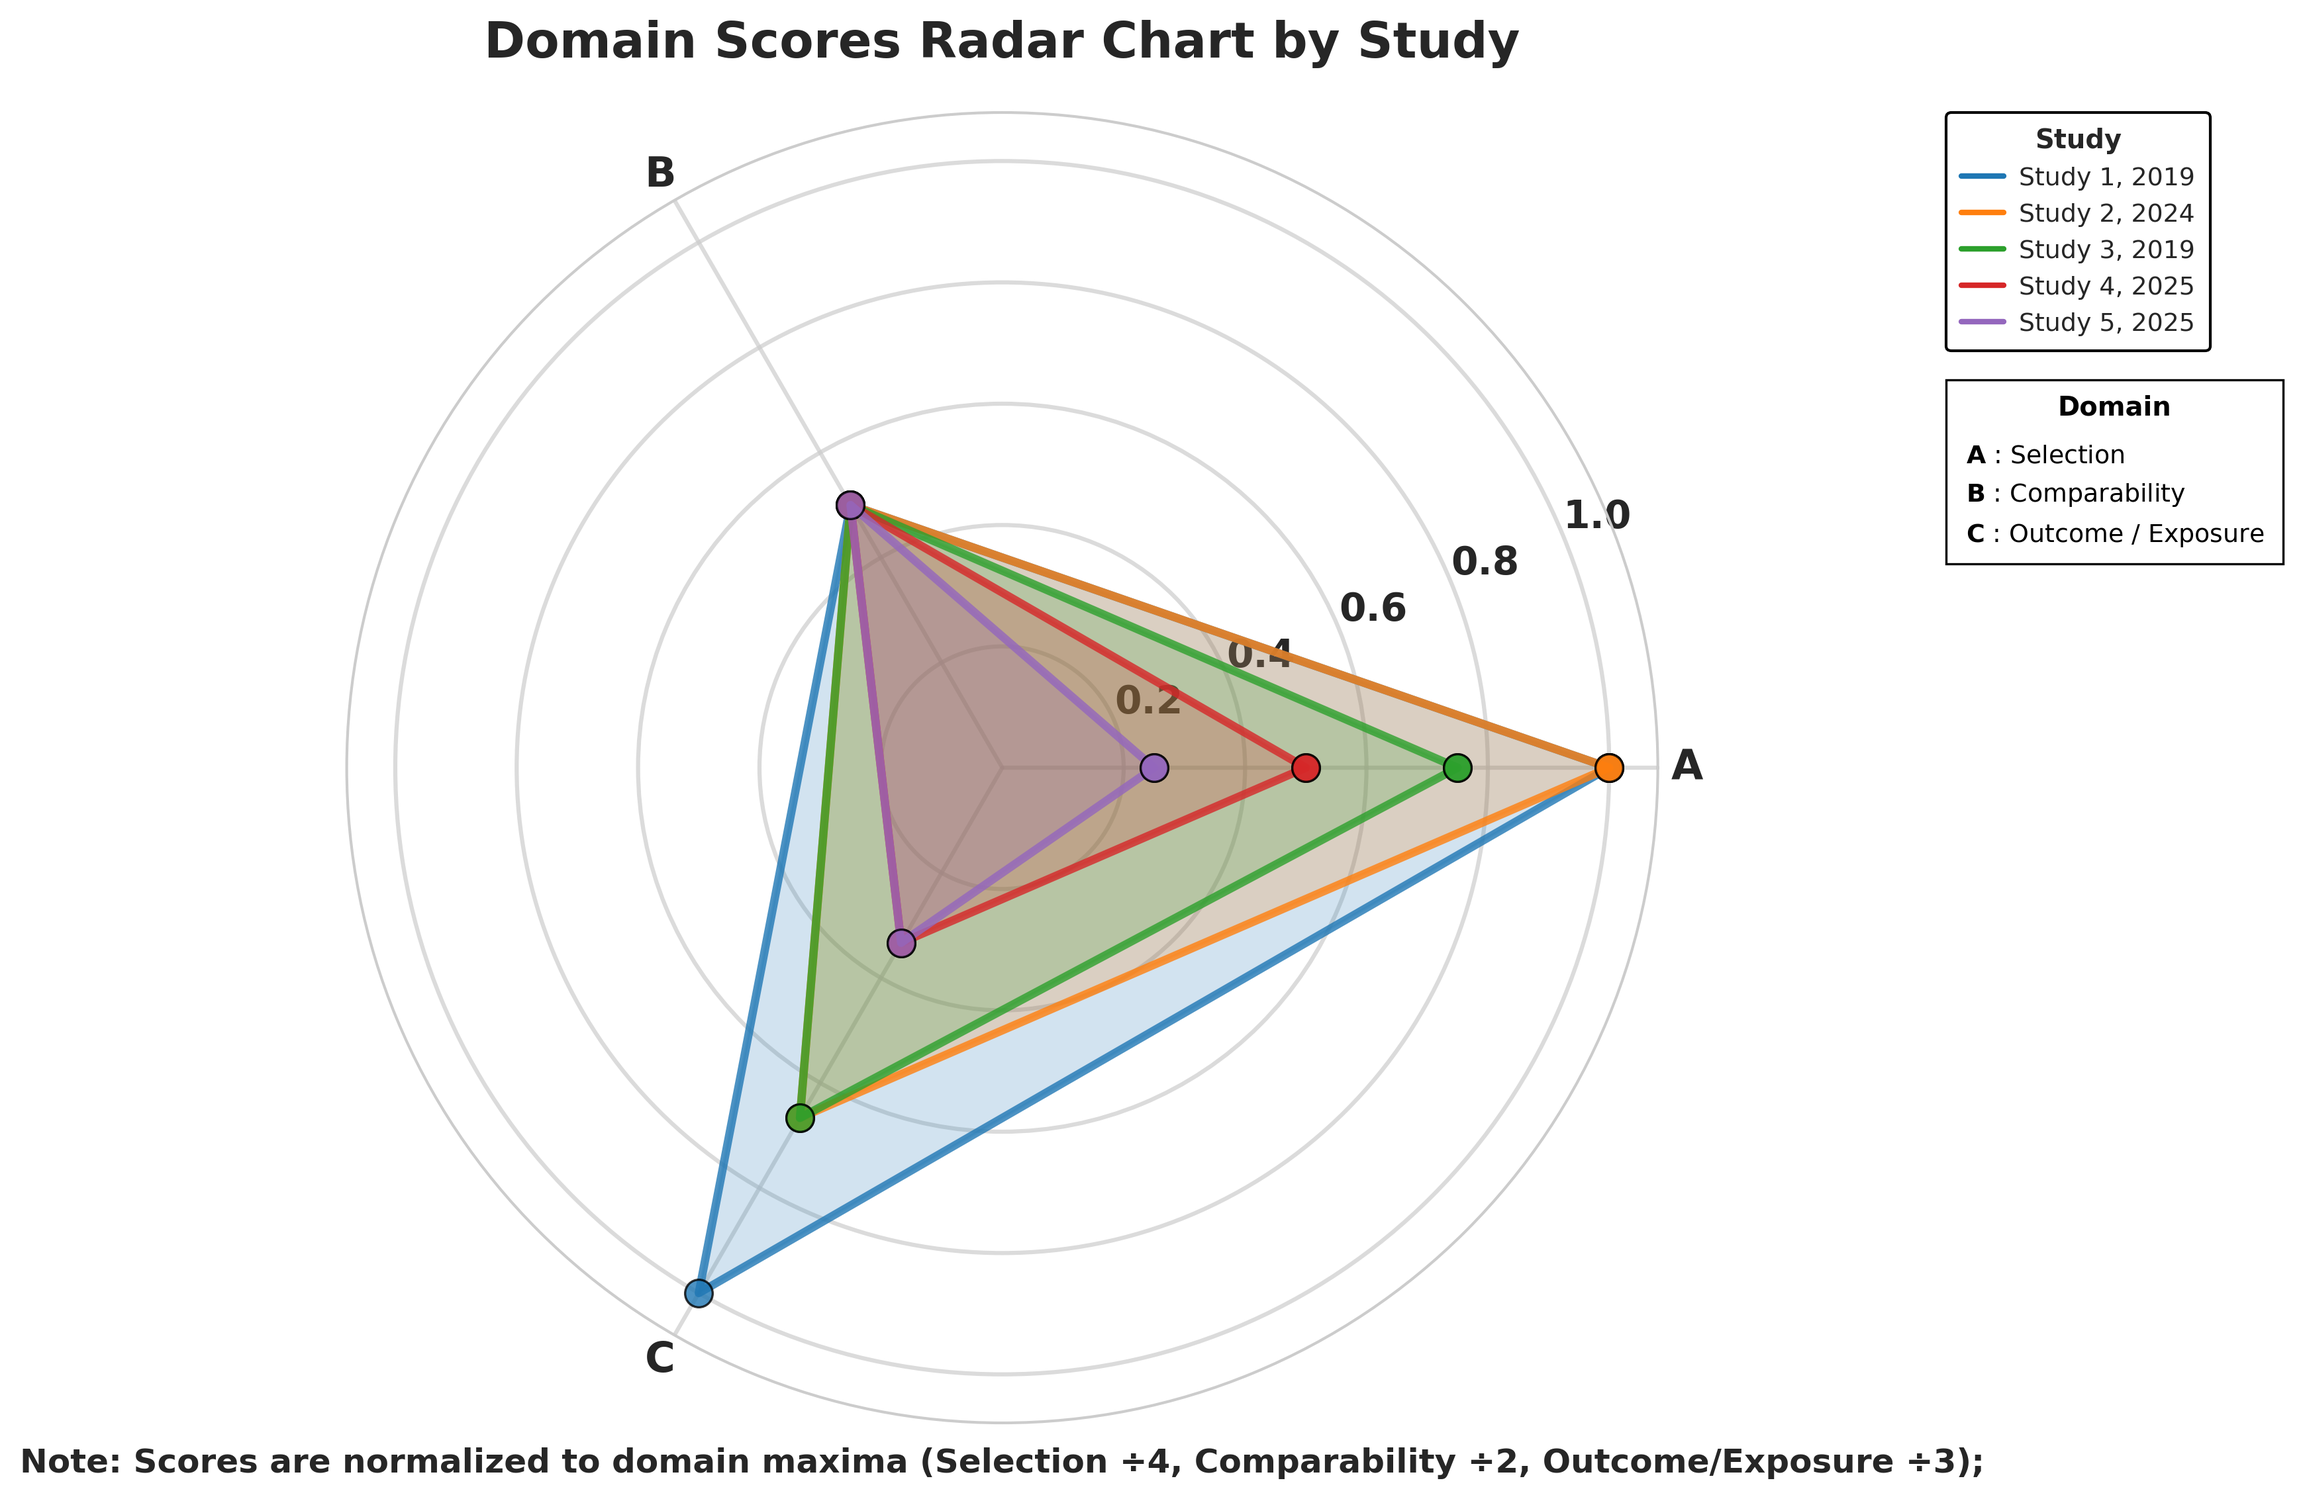
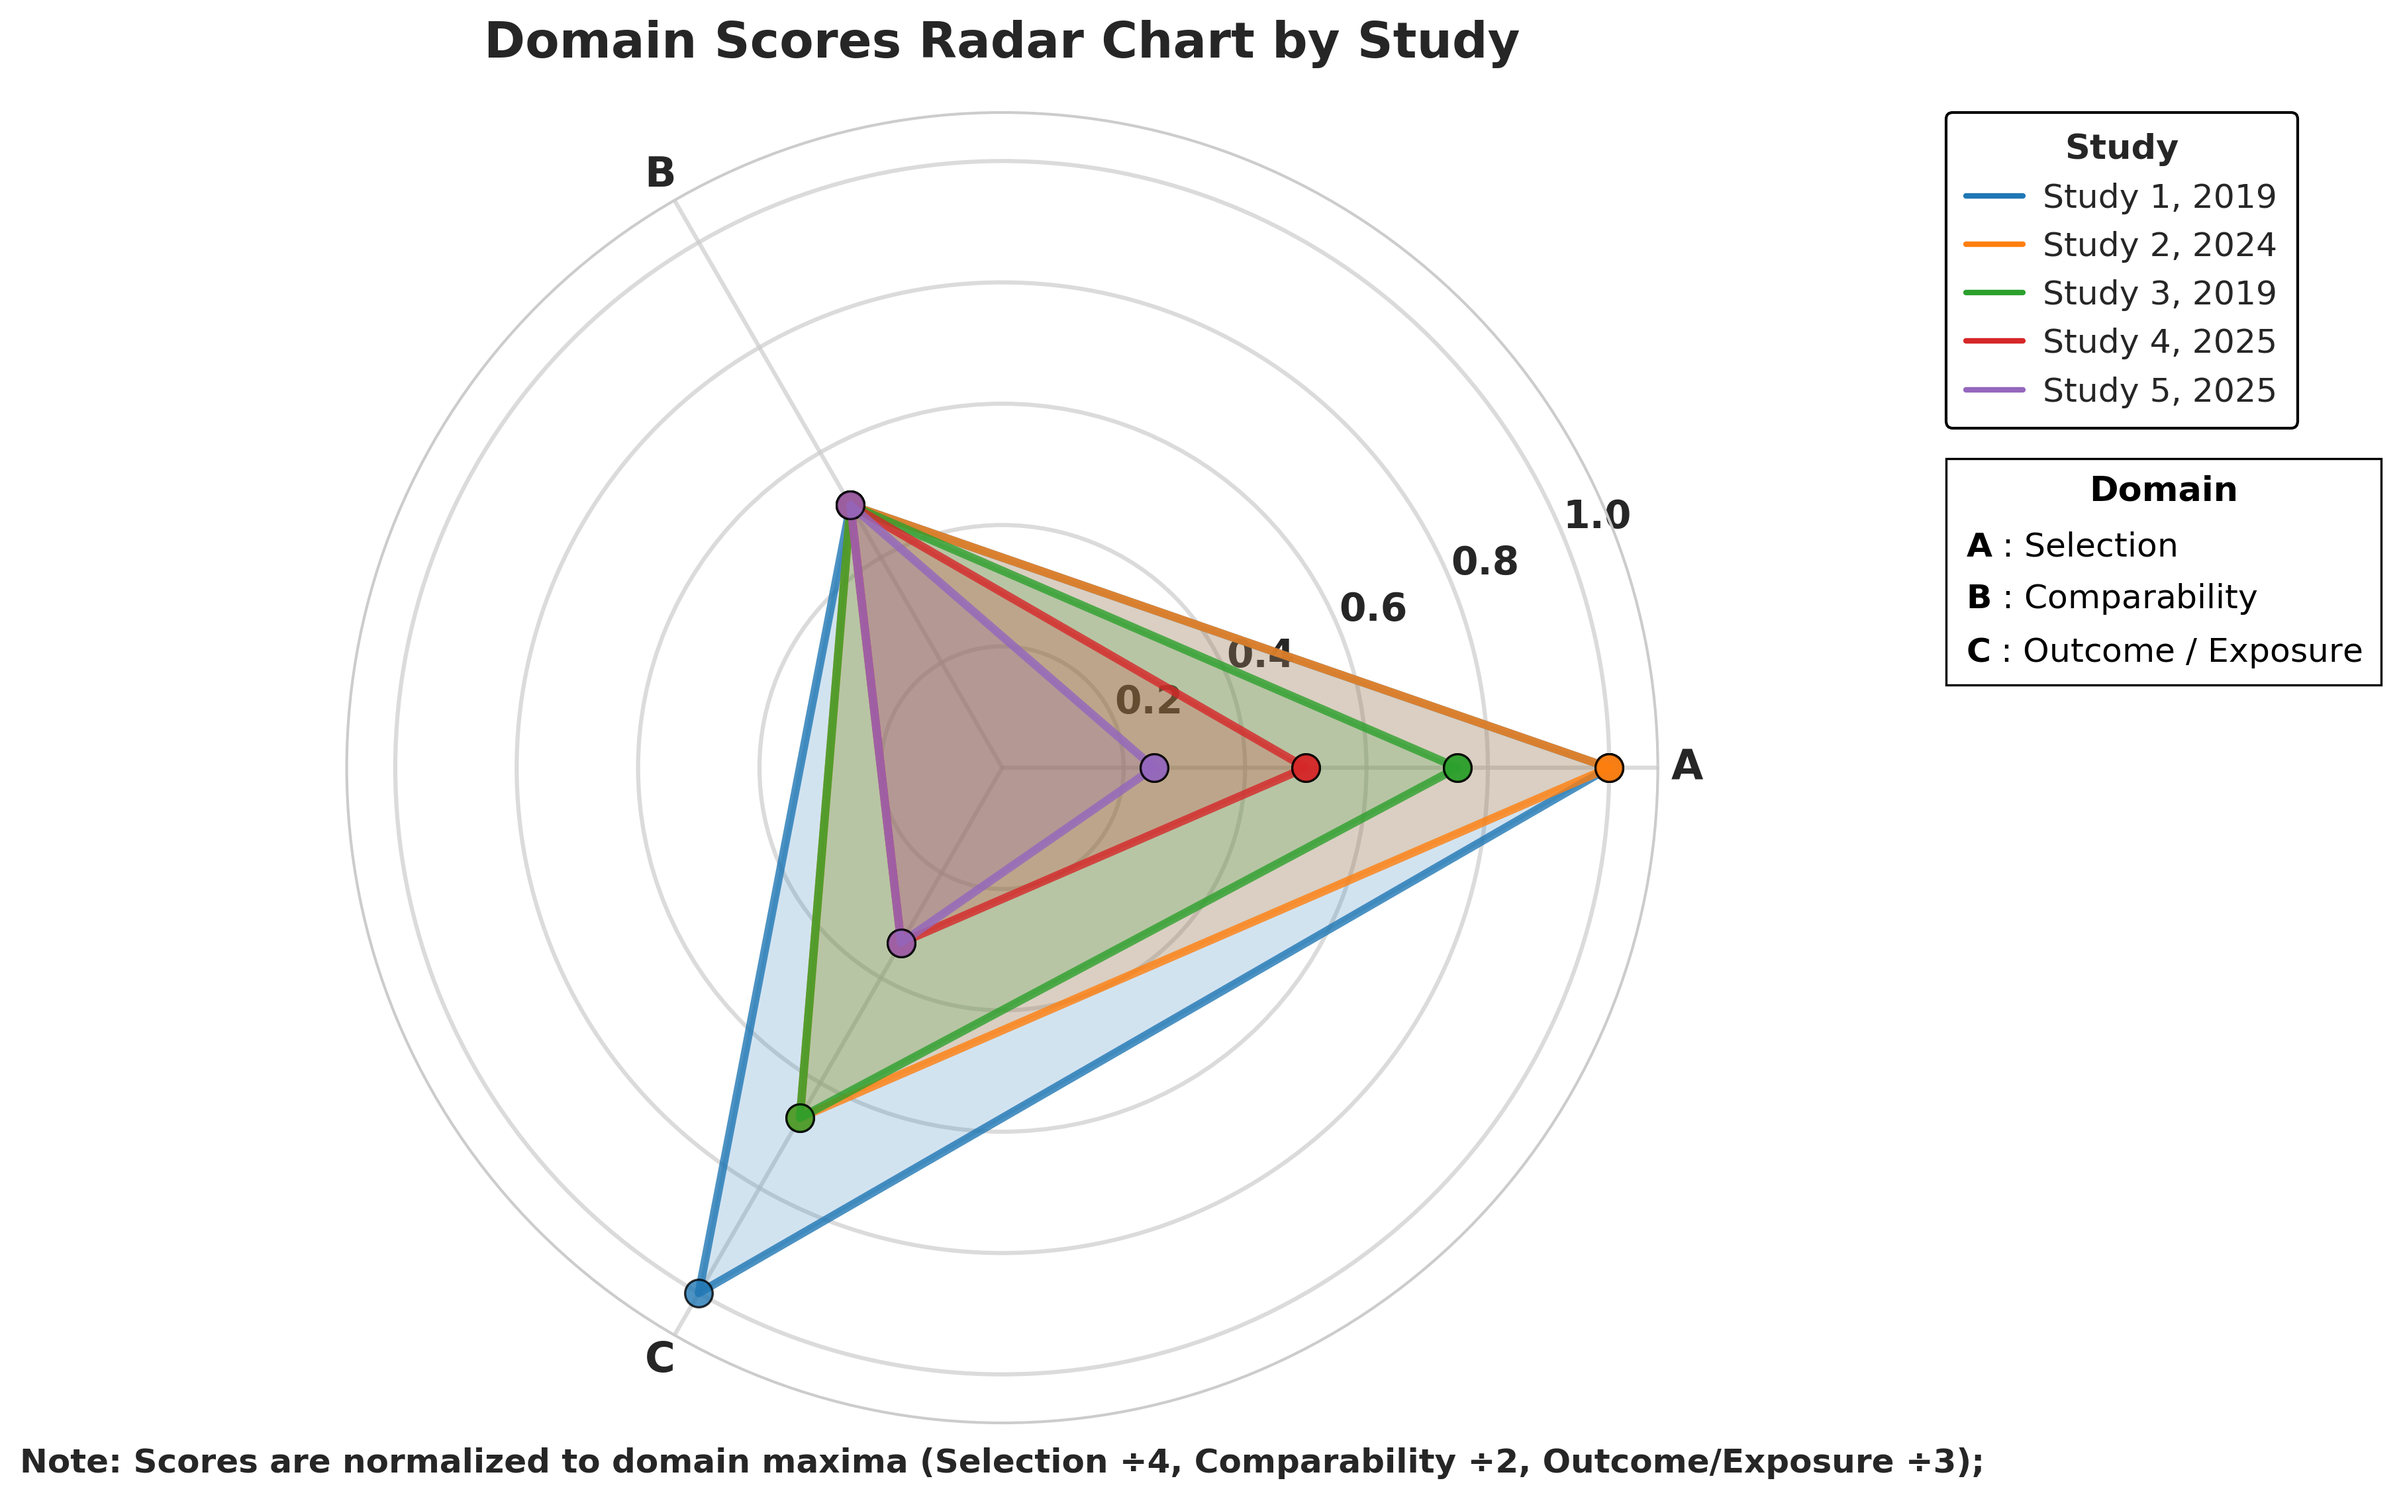
enlarge radar legends and table text, link themes section

diff --git a/nos_tlplot.py b/nos_tlplot.py
@@ -50,8 +50,8 @@ def get_theme_colors(theme):
 def compact_legend_fontsize(fig):
     return min(11.0, max(8.5, 0.65 * fig.get_size_inches()[0]))
 
-def add_compact_legend(ax, handles, title, anchor_x=1.02):
-    fs = compact_legend_fontsize(ax.get_figure())
+def add_compact_legend(ax, handles, title, anchor_x=1.02, fontsize=None):
+    fs = fontsize if fontsize is not None else compact_legend_fontsize(ax.get_figure())
     leg = ax.legend(handles=handles, title=title, fontsize=fs, title_fontsize=fs + 0.5,
                     loc='upper left', bbox_to_anchor=(anchor_x, 1.0), frameon=True,
                     edgecolor='black', facecolor='white', framealpha=1,
@@ -289,10 +289,10 @@ def plot_domain_radar(df: pd.DataFrame, output_file: str, theme: str = "traffic_
     ax.grid(True, linestyle='-', alpha=0.7, linewidth=1.5)
     
 
-    fs = compact_legend_fontsize(fig)
+    fs = min(13.0, compact_legend_fontsize(fig) + 3.0)
     study_legend_elements = [Line2D([0], [0], color=study_colors[i], lw=2.0, label=row['Author, Year'])
                              for i, (_, row) in enumerate(df.iterrows())]
-    leg = add_compact_legend(ax, study_legend_elements, "Study", anchor_x=1.22)
+    leg = add_compact_legend(ax, study_legend_elements, "Study", anchor_x=1.22, fontsize=fs)
 
     plt.subplots_adjust(bottom=0.22)
 
@@ -380,9 +380,9 @@ def plot_theme_radar(df: pd.DataFrame, output_file: str, theme: str = "traffic_l
     ax.tick_params(axis='y', labelsize=14)
     ax.grid(True, linestyle='-', alpha=0.7, linewidth=1.5)
     
-    fs = compact_legend_fontsize(fig)
+    fs = min(13.0, compact_legend_fontsize(fig) + 3.0)
     legend_elements = [Line2D([0], [0], color=colors_map[rob], lw=2.0, label=f"{rob} Risk") for rob in ["Low", "Moderate", "High"]]
-    risk_legend = add_compact_legend(ax, legend_elements, "Overall Risk", anchor_x=1.22)
+    risk_legend = add_compact_legend(ax, legend_elements, "Overall Risk", anchor_x=1.22, fontsize=fs)
 
     domain_mapping = {"A": "Selection", "B": "Comparability", "C": "Outcome / Exposure"}
 
@@ -568,7 +568,7 @@ def plot_score_table(df: pd.DataFrame, output_file: str, theme: str = "traffic_l
     table_df = df[["Author, Year", "Selection", "Comparability", "Outcome/Exposure", "Total Score", "Overall RoB"]].copy()
     table_df = table_df.sort_values("Overall RoB", ascending=False)
     
-    fig_width = max(12, 10 + len(table_df.columns) * 1.5)
+    fig_width = max(12, 5 + len(table_df.columns) * 1.63)
     fig_height = max(5, 0.4 * len(table_df) + 1.2)
     
     fig, ax = plt.subplots(figsize=(fig_width, fig_height))
@@ -591,7 +591,7 @@ def plot_score_table(df: pd.DataFrame, output_file: str, theme: str = "traffic_l
     )
     
     table.auto_set_font_size(False)
-    table.set_fontsize(13)
+    table.set_fontsize(15)
     
     for key, cell in table.get_celld().items():
         if key[0] > 0:
@@ -607,17 +607,18 @@ def plot_score_table(df: pd.DataFrame, output_file: str, theme: str = "traffic_l
             cell.set_facecolor('#f0f0f0')
             cell.set_edgecolor('white')
             cell.set_linewidth(2.5)
+            cell.get_text().set_fontsize(14.5)
         else:
             cell.set_edgecolor('white')
             cell.set_linewidth(2.5)
     
     plt.subplots_adjust(left=0.05, right=0.95)
     
-    fs = compact_legend_fontsize(fig)
+    fs = min(12.5, compact_legend_fontsize(fig) + 2.5)
     legend_elements = [Line2D([0], [0], marker='o', color='w', markerfacecolor=colors_map[rob],
                               markeredgecolor='black', markersize=fs * 0.85, markeredgewidth=0.8, label=f"{rob} Risk")
                        for rob in ["High", "Moderate", "Low"]]
-    add_compact_legend(ax, legend_elements, "Overall Risk")
+    add_compact_legend(ax, legend_elements, "Overall Risk", fontsize=fs)
     
 
     plt.savefig(output_file, dpi=300, bbox_inches='tight', pad_inches=0.2)

diff --git a/README.md b/README.md
@@ -22,7 +22,7 @@ It converts NOS star ratings into **publication-ready traffic-light plots** and 
 
 - **12 Visualization Types**: Traffic-light plots, radar charts, heatmaps, dot profiles, donut charts, lollipop charts, line plots, and more  
 - **Publication-Quality Output**: Export figures in `.png`, `.pdf`, `.svg`, `.eps` formats  
-- **Multiple Themes**: Traffic-light, grayscale, ocean-blue, and sage themes for various publication requirements  
+- **Multiple Themes**: Traffic-light, grayscale, ocean-blue, and sage themes for various publication requirements — [see the Themes section](#themes)  
 - **Interactive Web App**: Built with Streamlit for simple data upload, preview, and figure export  
 - **Command Line Interface**: For batch processing and automated figure generation  
 - **Domain-Specific Risk Assessment**: Automatically converts NOS stars (0–9) to categorical RoB (Low/Moderate/High)  
